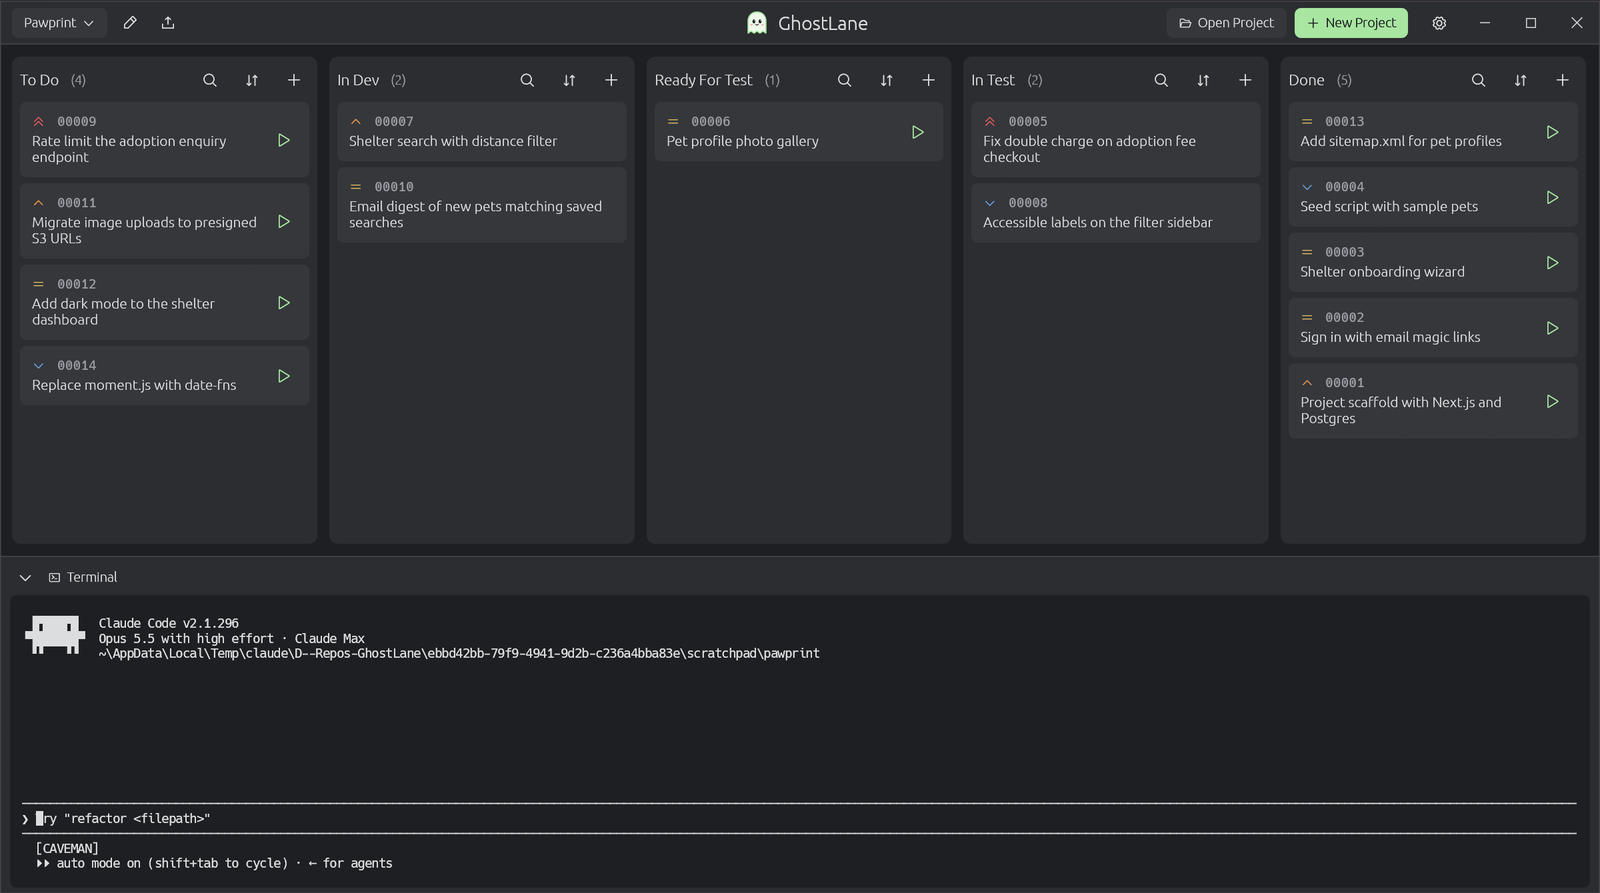
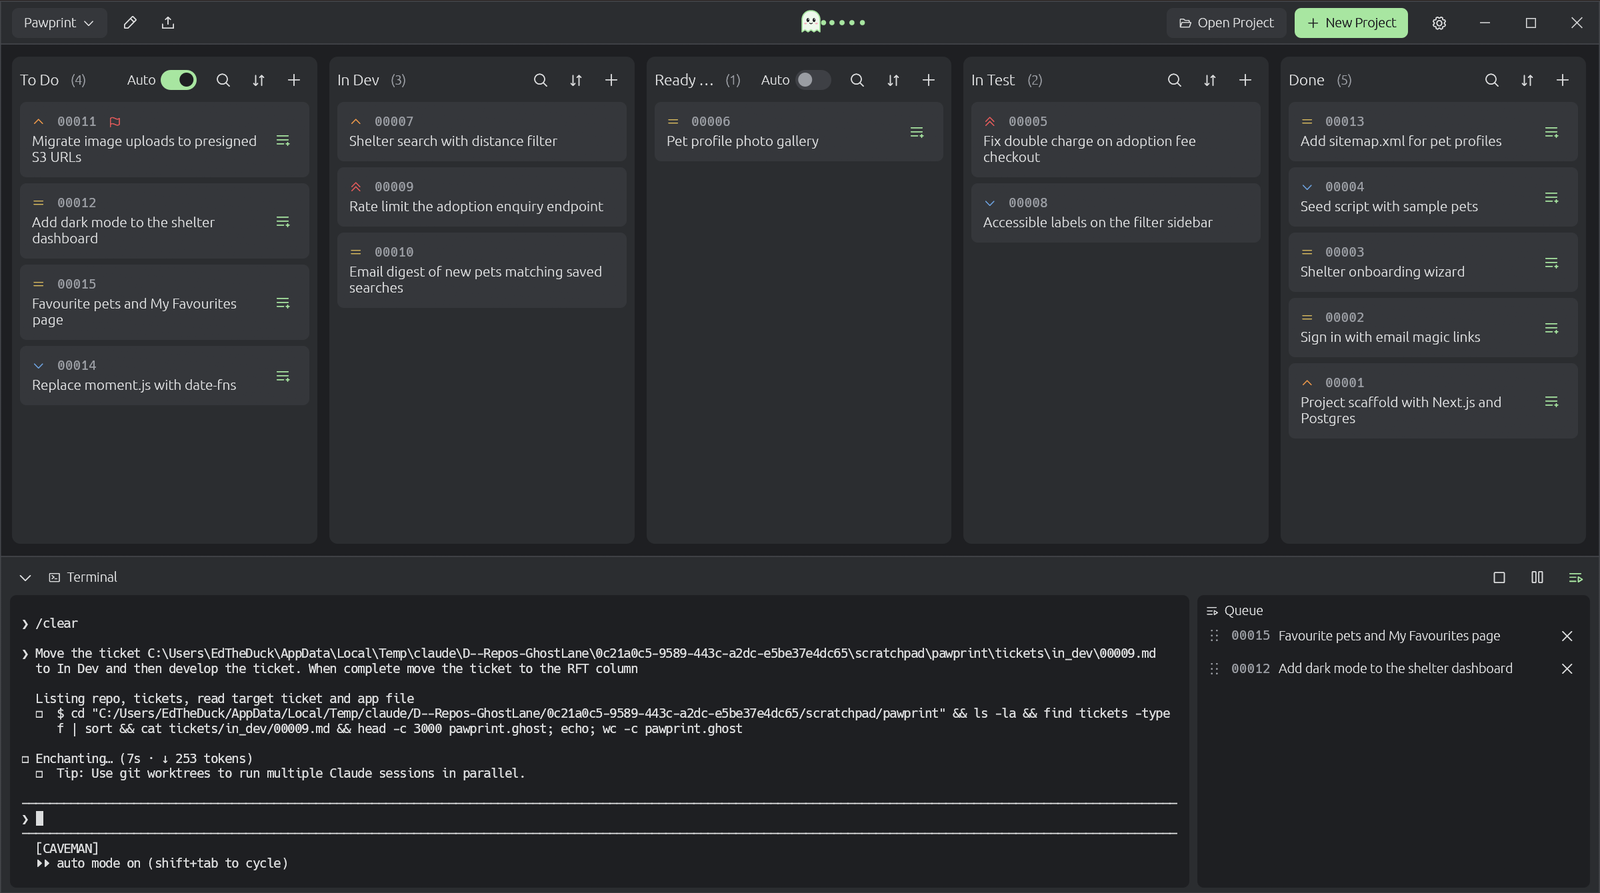
Refresh screenshots and document Auto, the queue, document import and update checks in the README

diff --git a/README.md b/README.md
@@ -10,7 +10,7 @@ Native app for Windows, macOS and Linux, written in Rust. No account, no server,
 
 **[⬇ Download the latest release](../../releases/latest)**
 
-![The GhostLane board with Claude Code running in the built-in terminal](docs/screenshots/board.png)
+![The GhostLane board with Claude Code working on a ticket, Auto switched on for To Do and two tickets queued beside the terminal](docs/screenshots/board.png)
 
 ---
 
@@ -19,6 +19,7 @@ Native app for Windows, macOS and Linux, written in Rust. No account, no server,
 - **Big changes become a queue of small prompts.** Break a feature into tickets, give each one a test scope, then hand them to your AI one at a time. You review ticket 3 while ticket 4 runs, and nothing gets lost in a scrollback.
 - **Your AI writes the tickets.** Describe what you want in a sentence. GhostLane asks the project's AI CLI to read the codebase and write a full ticket with a priority, a description and a test scope.
 - **One click to run.** The ▶ button on every card sends that ticket to your AI CLI. If the CLI is already open in the terminal, GhostLane types the prompt straight into it.
+- **Hands-free when you want it.** Queue up tickets while the AI is busy, or switch a column to Auto and let it work through the backlog by itself. Pause or stop it whenever you need to step in.
 - **Tickets move themselves.** Press ▶ on a To Do ticket and it slides into In Dev while the AI works, then on to Ready For Test when it's done. Testing works the same way, so a ticket can go from idea to Done with two clicks.
 - **A Developer and a Tester on call.** GhostLane sets up developer and tester sub agents for your AI CLI that know your columns, which tickets are theirs and where to move them next.
 - **The AI can see the plan.** Tickets live in `tickets/` inside your project, so your AI can read past and upcoming work, and can create or edit tickets itself. The board picks up every change the moment the file changes.
@@ -44,6 +45,12 @@ When the file appears, the new ticket lands on the board. If the CLI exits early
 Existing tickets work the same way. Open a ticket, click the pencil, and the **AI Assisted** tab lets you say what should change ("raise the priority and add a test for expired links"). The AI updates the file in place and keeps its ID and run count.
 
 Prefer to write it yourself? The **Manual** tab is always one click away.
+
+### Tickets from a spec or plan
+
+Already have a technical spec, design doc or project plan? Click the upload icon next to the project name and choose the file, or just drop it anywhere on the window. Press **Generate Tickets** and your AI reads the document and writes a ticket for each piece of work into the first column, skipping anything that already has a ticket. The new tickets appear on the board as they're written.
+
+![Choosing a document to turn into tickets](docs/screenshots/import.png)
 
 ### Send a ticket to AI with one click
 
@@ -148,6 +155,7 @@ Click the ⚙ cog to choose:
 - **notifications**: whether GhostLane gets your attention when the AI runs out of work, and when a ticket fails
 - which **shell** to use (detected automatically by default)
 - the **terminal font size**
+- whether to **check for updates** on startup. When a newer release is out, an **Update** button appears in the title bar and takes you to the download.
 
 ![The settings dialog](docs/screenshots/settings.png)
 
@@ -211,7 +219,7 @@ You, your teammates or your AI can write tickets like this by hand, and GhostLan
 1. **Download** the build for your platform from the [releases page](../../releases/latest) and run it.
 2. Click **New Project**, give it a name and choose a folder. An existing code repository works well, since that's what your AI will read.
 3. Pick the project's AI CLI, adjust the columns if you like, then click **Create**.
-4. Press **➕** on a column and describe your first ticket on the **AI Assisted** tab, or write it yourself on **Manual**.
+4. Press **➕** on a column and describe your first ticket on the **AI Assisted** tab, or write it yourself on **Manual**. Got a spec or plan already? Drop it on the window and let your AI turn it into tickets.
 5. Press **▶** on a To Do ticket to hand it to your AI. It moves into In Dev while the AI works and on to Ready For Test when it's done; press ▶ there to have it tested. You can always drag cards yourself too.
 
 To open an existing project, click **Open Project** and select its `.ghost` file.
